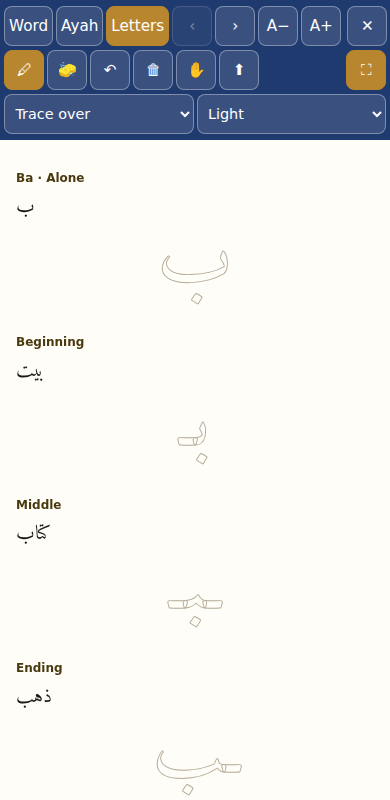
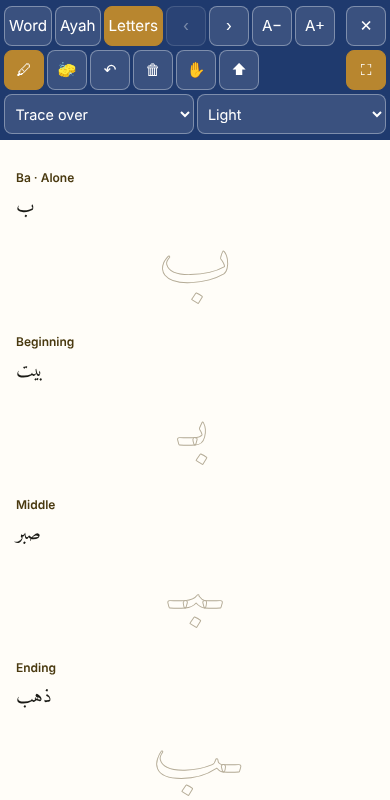
Review #935: three example words put the letter in the named place; the data check asserts position (PCF MSA J35)
Claude-Session: https://claude.ai/code/session_01EXxaMgDxPuADkuAus61QVX

diff --git a/app/js/arabic-letters.js b/app/js/arabic-letters.js
@@ -13,10 +13,10 @@ export const ARABIC_LETTERS = [
     examples: { alone: "ا", start: "ابن", middle: "كتاب", end: "عصا" } },
   { id: "ba", letter: "ب", name: { en: "Ba", bn: "বা" }, joinsLeft: true,
     forms: { alone: "ب", start: "بـ", middle: "ـبـ", end: "ـب" },
-    examples: { alone: "ب", start: "بيت", middle: "كتاب", end: "ذهب" } },
+    examples: { alone: "ب", start: "بيت", middle: "صبر", end: "ذهب" } },
   { id: "ta", letter: "ت", name: { en: "Ta", bn: "তা" }, joinsLeft: true,
     forms: { alone: "ت", start: "تـ", middle: "ـتـ", end: "ـت" },
-    examples: { alone: "ت", start: "تمر", middle: "بيت", end: "بنت" } },
+    examples: { alone: "ت", start: "تمر", middle: "كتاب", end: "بنت" } },
   { id: "tha", letter: "ث", name: { en: "Tha", bn: "ছা" }, joinsLeft: true,
     forms: { alone: "ث", start: "ثـ", middle: "ـثـ", end: "ـث" },
     examples: { alone: "ث", start: "ثوب", middle: "مثل", end: "حدث" } },
@@ -34,7 +34,7 @@ export const ARABIC_LETTERS = [
     examples: { alone: "د", start: "درس", middle: "بدر", end: "ولد" } },
   { id: "dhal", letter: "ذ", name: { en: "Dhal", bn: "যাল" }, joinsLeft: false,
     forms: { alone: "ذ", start: "ذ", middle: "ـذ", end: "ـذ" },
-    examples: { alone: "ذ", start: "ذهب", middle: "نذر", end: "كذب" } },
+    examples: { alone: "ذ", start: "ذهب", middle: "نذر", end: "أخذ" } },
   { id: "ra", letter: "ر", name: { en: "Ra", bn: "রা" }, joinsLeft: false,
     forms: { alone: "ر", start: "ر", middle: "ـر", end: "ـر" },
     examples: { alone: "ر", start: "رجل", middle: "برد", end: "نور" } },
